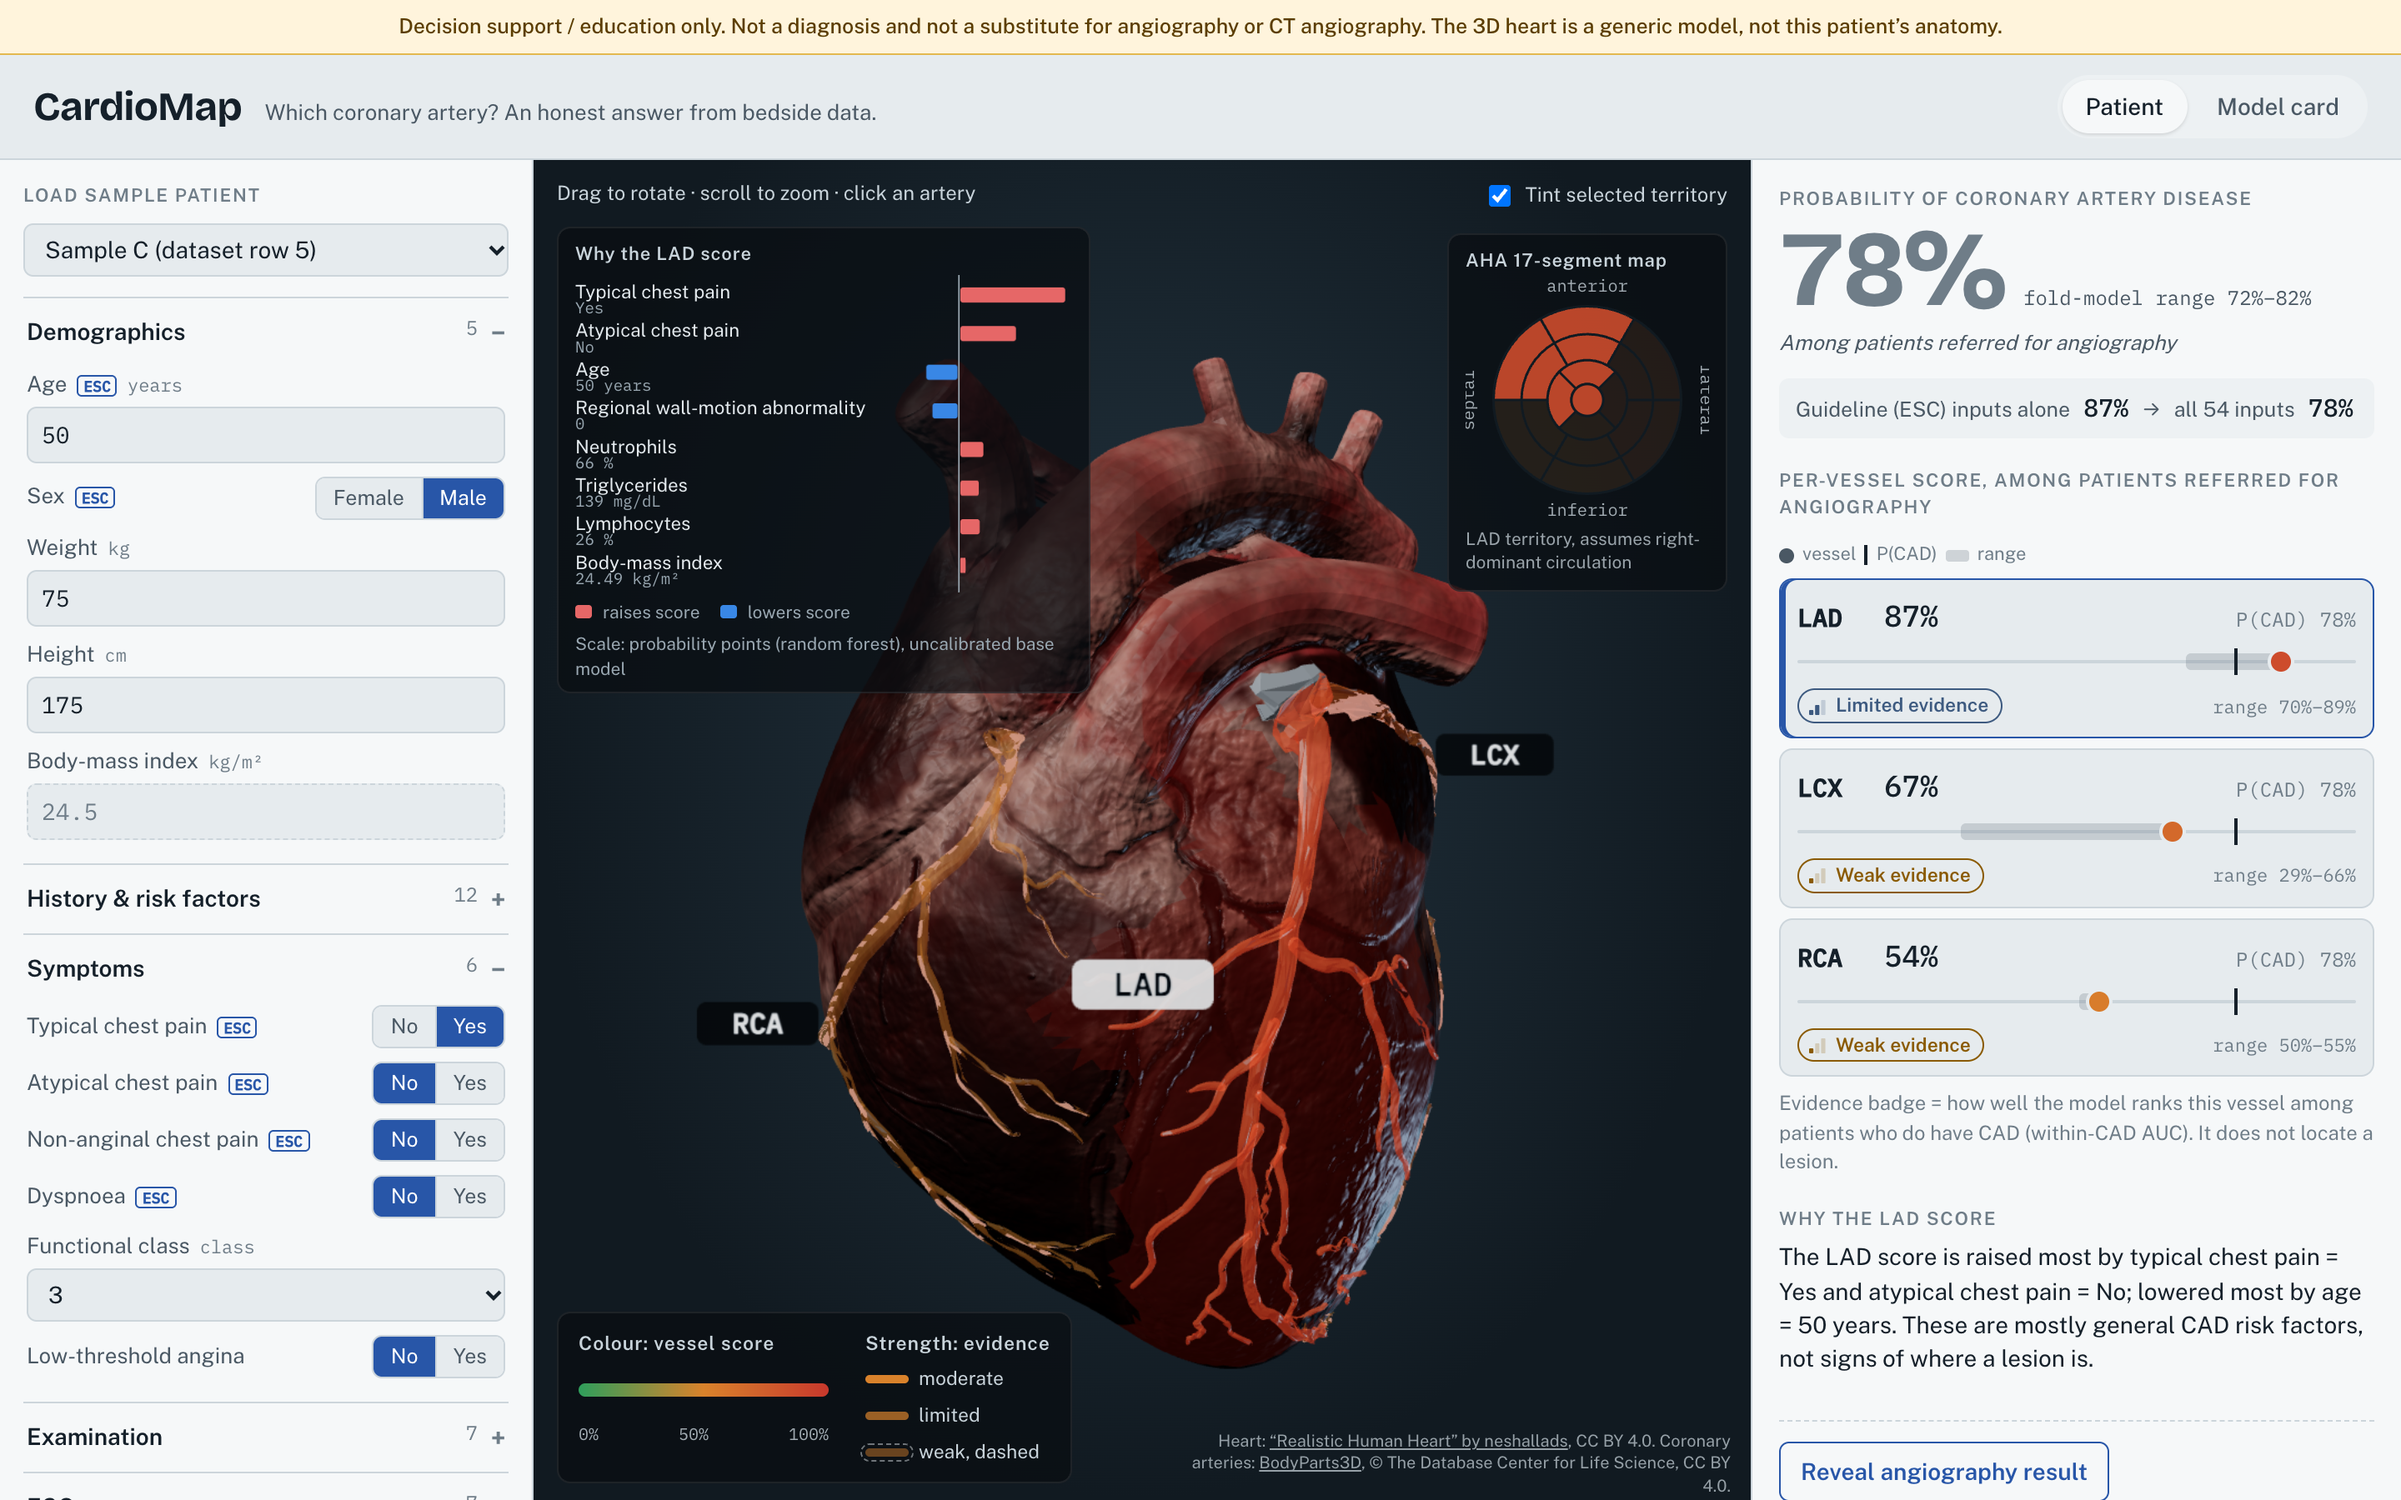
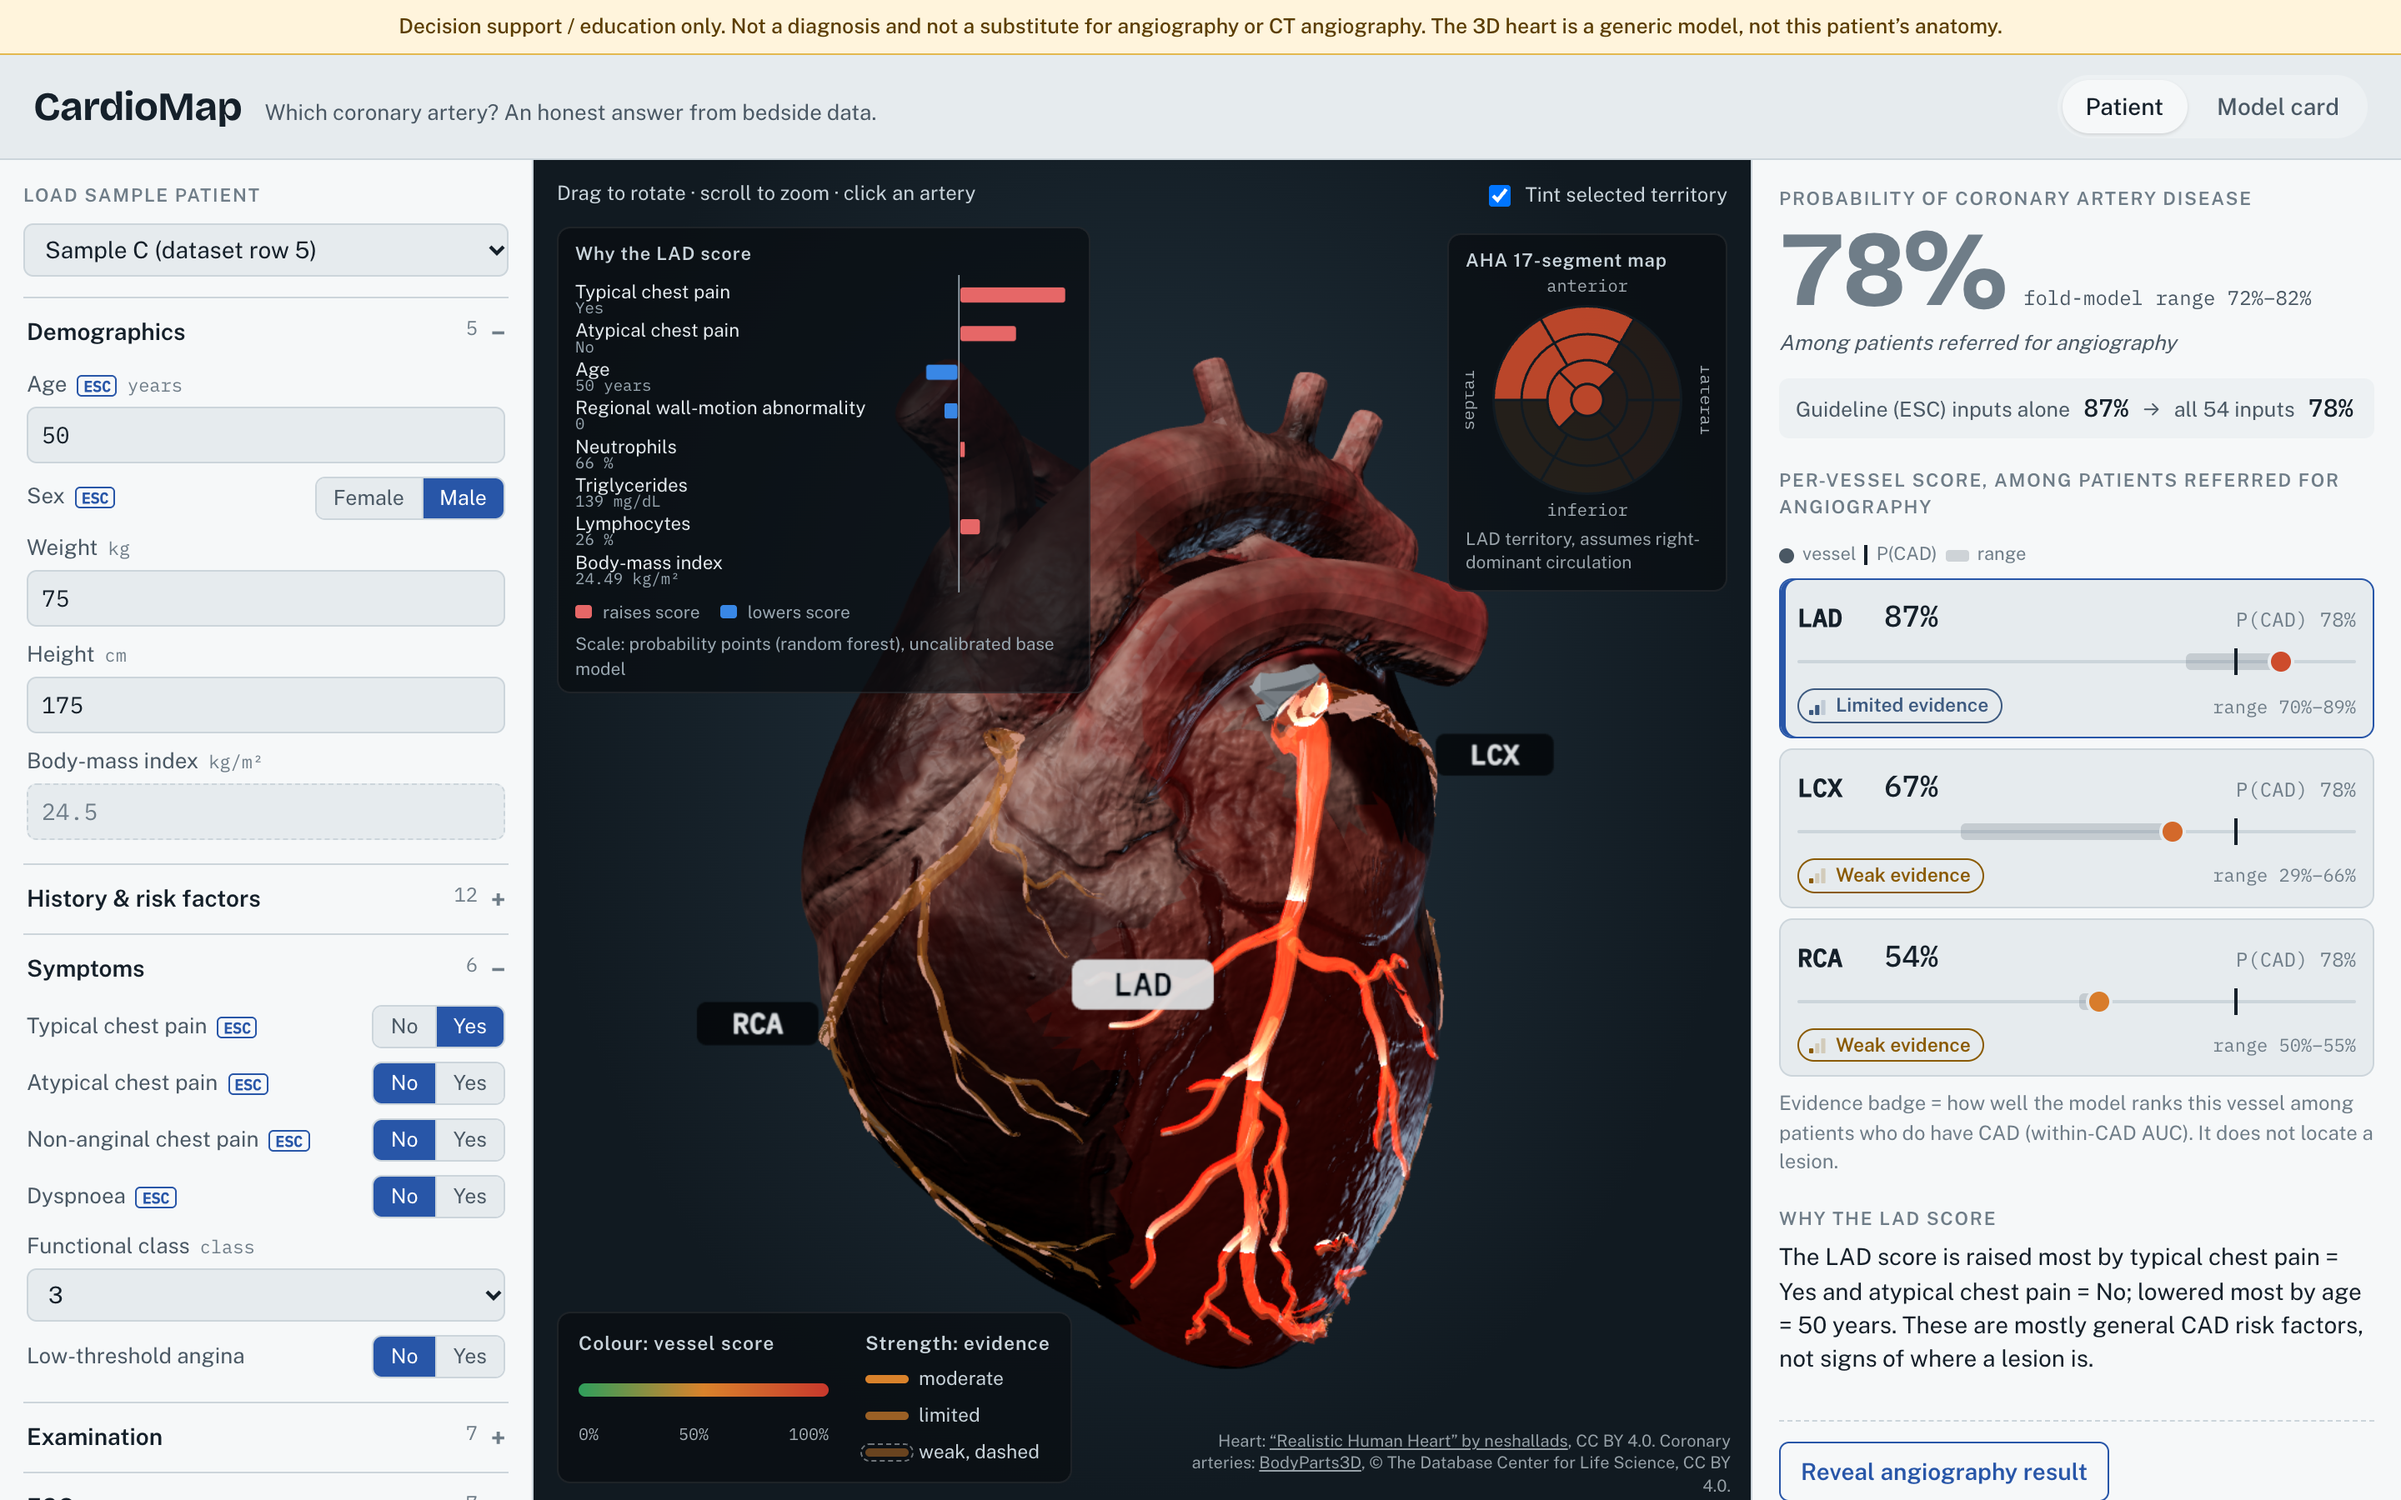
Glowing streaming lines on the selected artery
- Additive fresnel halo plus light streaks flowing from the ostium (LAD/LCX at the
  left main, RCA at the aortic root) to every branch tip, looping while selected
- Streaks take the vessel's API colour, brightening to white at each head;
  occluded by the heart; static glow with prefers-reduced-motion
- Renders continuously only while a vessel is selected (demand frameloop otherwise)

Changed region(s): [[0.4688, 0.4356, 0.5938, 0.9022]]

diff --git a/frontend/src/components/Heart.tsx b/frontend/src/components/Heart.tsx
@@ -1,5 +1,5 @@
 import { OrbitControls, useGLTF } from '@react-three/drei'
-import { Canvas, useThree } from '@react-three/fiber'
+import { Canvas, useFrame, useThree } from '@react-three/fiber'
 import type { ThreeEvent } from '@react-three/fiber'
 import { useEffect, useMemo, useState } from 'react'
 import * as THREE from 'three'
@@ -94,6 +94,90 @@ interface ArteryProps {
   onSelect: (v: Vessel) => void
 }
 
+/* Selection glow: bright pulses stream from the ostium to the branch tips, inside a soft fresnel halo.
+   aDist = each vertex's distance from the vessel's ostium, normalised 0..1 per vessel. */
+const reducedMotion = () => typeof window !== 'undefined' && window.matchMedia('(prefers-reduced-motion: reduce)').matches
+
+function withStreamDistance(geo: THREE.BufferGeometry, ostium: THREE.Vector3) {
+  if (geo.getAttribute('aDist')) return geo
+  const pos = geo.attributes.position as THREE.BufferAttribute
+  const d = new Float32Array(pos.count)
+  const v = new THREE.Vector3()
+  let max = 1e-6
+  for (let i = 0; i < pos.count; i++) {
+    d[i] = v.fromBufferAttribute(pos, i).distanceTo(ostium)
+    max = Math.max(max, d[i])
+  }
+  for (let i = 0; i < d.length; i++) d[i] /= max
+  geo.setAttribute('aDist', new THREE.BufferAttribute(d, 1))
+  return geo
+}
+
+/* Ostium: LAD and LCX start where they meet the left main; the RCA at its highest point (aortic root). */
+function ostiumOf(vessel: Vessel, geo: THREE.BufferGeometry, lm: THREE.BufferGeometry) {
+  const pos = geo.attributes.position as THREE.BufferAttribute
+  const v = new THREE.Vector3(), best = new THREE.Vector3()
+  if (vessel === 'RCA') {
+    let top = -Infinity
+    for (let i = 0; i < pos.count; i++) { v.fromBufferAttribute(pos, i); if (v.y > top) { top = v.y; best.copy(v) } }
+    return best
+  }
+  lm.computeBoundingBox()
+  const c = lm.boundingBox!.getCenter(new THREE.Vector3())
+  let near = Infinity
+  for (let i = 0; i < pos.count; i++) { v.fromBufferAttribute(pos, i); const d = v.distanceTo(c); if (d < near) { near = d; best.copy(v) } }
+  return best
+}
+
+const streamMaterial = (color: string) =>
+  new THREE.ShaderMaterial({
+    uniforms: { uTime: { value: 0 }, uColor: { value: new THREE.Color(color) }, uMotion: { value: reducedMotion() ? 0 : 1 } },
+    vertexShader: `
+      attribute float aDist;
+      varying float vDist;
+      varying vec3 vN;
+      varying vec3 vV;
+      void main() {
+        vDist = aDist;
+        vec4 mv = modelViewMatrix * vec4(position + normal * 0.02, 1.0);
+        vN = normalize(normalMatrix * normal);
+        vV = normalize(-mv.xyz);
+        gl_Position = projectionMatrix * mv;
+      }`,
+    fragmentShader: `
+      uniform float uTime;
+      uniform vec3 uColor;
+      uniform float uMotion;
+      varying float vDist;
+      varying vec3 vN;
+      varying vec3 vV;
+      void main() {
+        float fres = pow(1.0 - abs(dot(normalize(vN), normalize(vV))), 2.0);
+        float s = fract(vDist * 4.0 - uTime * 0.5);
+        float pulse = (pow(s, 6.0) + 0.6 * pow(s, 40.0)) * uMotion;   // long streak, bright head, tail toward the ostium
+        float halo = 0.28 + 0.7 * fres;
+        float a = clamp(halo * 0.55 + pulse * (0.75 + 0.5 * fres), 0.0, 1.0);
+        vec3 c = mix(uColor * 1.35, vec3(1.0, 0.97, 0.9), pulse * 0.75);
+        gl_FragColor = vec4(c * a, a);
+      }`,
+    transparent: true,
+    depthWrite: false,
+    blending: THREE.AdditiveBlending,
+  })
+
+function Stream({ geometry, color }: { geometry: THREE.BufferGeometry; color: string }) {
+  const mat = useMemo(() => streamMaterial(color), [color])
+  useEffect(() => () => mat.dispose(), [mat])
+  const invalidate = useThree((st) => st.invalidate)
+  useFrame((_, dt) => {
+    if (!mat.uniforms.uMotion.value) return
+    mat.uniforms.uTime.value += dt
+    invalidate()   // demand frameloop: keep rendering only while a vessel is selected
+  })
+  useEffect(() => invalidate(), [invalidate])
+  return <mesh geometry={geometry} material={mat} renderOrder={5} raycast={() => null} name="stream" />
+}
+
 function Artery({ vessel, geometry, color, evidence, selected, onHover, onSelect }: ArteryProps) {
   const opacity = OPACITY[evidence]
   const outline = useMemo(() => (evidence === 'weak' ? dashedOutline(color) : null), [evidence, color])
@@ -121,6 +205,7 @@ function Artery({ vessel, geometry, color, evidence, selected, onHover, onSelect
         />
       </mesh>
       {outline && <mesh geometry={geometry} material={outline} name={`${vessel}-weak-outline`} raycast={() => null} />}
+      {selected && <Stream geometry={geometry} color={color} />}
       <Label text={vessel} position={anchor} selected={selected} />
     </group>
   )
@@ -202,6 +287,11 @@ interface SceneProps {
 function HeartModel({ prediction, selected, onSelect, tint, onHover }: SceneProps) {
   const { nodes } = useGLTF(MODEL_URL, false, false) as unknown as { nodes: Nodes }
   const state = prediction?.scene_state
+  const geos = useMemo(
+    () => Object.fromEntries(VESSELS.map((v) =>
+      [v, withStreamDistance(nodes[v].geometry, ostiumOf(v, nodes[v].geometry, nodes.LM.geometry))])) as Record<Vessel, THREE.BufferGeometry>,
+    [nodes],
+  )
   return (
     <group rotation={[0.05, -0.2, 0]} position={[0, -0.1, 0]}>
       <Myocardium nodes={nodes} tint={tint} />
@@ -210,7 +300,7 @@ function HeartModel({ prediction, selected, onSelect, tint, onHover }: SceneProp
           <Artery
             key={v}
             vessel={v}
-            geometry={nodes[v].geometry}
+            geometry={geos[v]}
             color={state[v].color}
             evidence={state[v].evidence}
             selected={selected === v}
